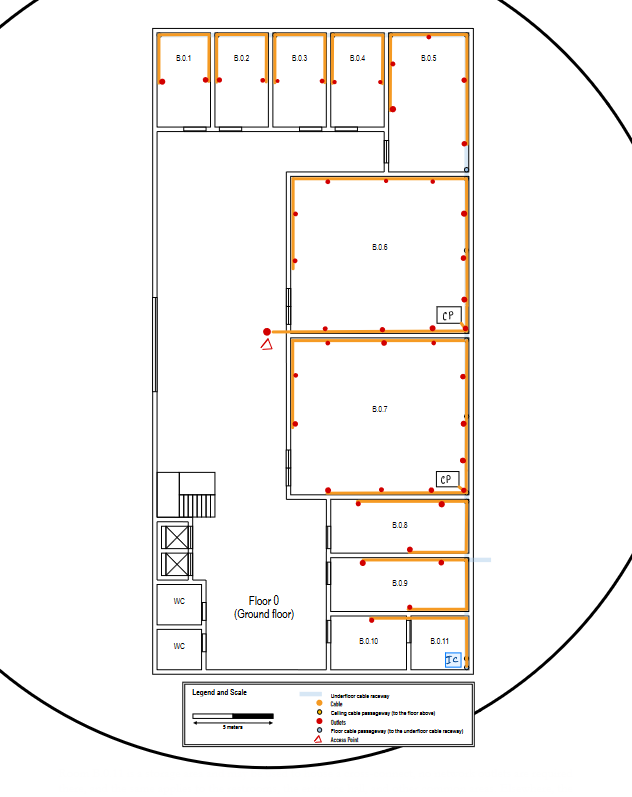
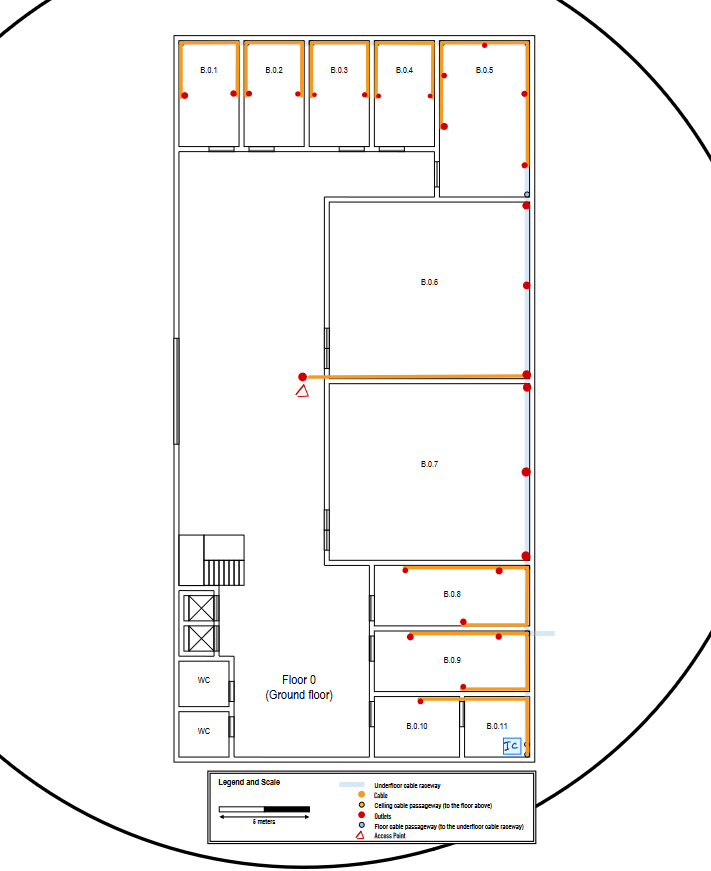
building b: justified choices and layouts that were used

diff --git a/doc/sprint1/1210951/README.md b/doc/sprint1/1210951/README.md
@@ -1,28 +1,65 @@
 RCOMP 2022-2023 Project - Sprint 1 - Member 1210951 folder
 ===========================================
 
-# Floor 0
+# Overview
+
+
+## Floor 0:
+- Underground cable raceway
+- Ceiling height : 4 meters
+- B.0.11 does not need outlets
+- B.0.6 and B.0.7 only need 5 outlets along the underfloor cable raceway
+## Floor 1:
+- Ceiling height: 3 meters
+- Removable dropped ceiling: 2.5 meters
+
+## Common to both floors:
+- Full Wi-Fi coverage
+- No network outlets required at the restrooms, halls, and corridors
+- Rooms with no specific requirements regarding outlets must follow the ratio of 2 outlets by 10m2
+
+
+# Ground floor - Floor 0
 ## Measurements
 
 |      Room       | Length (m) | Width (m) | Area (m²) | Outlets |
 | :-------------: | :--------: | :-------: | :-------: | :-----: |
 | B.0.1 to B.0.4  |    5.77    |   3.27    |   18.87   |    4    |
 |      B.05       |    8.65    |   5       |   43.25   |   10    |
-| B.0.6 and B.0.7 |   10.96    |   9.62    |   105.43  |   22+1(cp)    |
+| B.0.6 and B.0.7 |   10.96    |   9.62    |   105.43  |   5    |
 | B.0.8 and B.0.9 |    8.65    |   3.27    |   27.66   |    6    |
 |     B.0.10      |    4.62    |   3.27    |   7.85    |    2    |
 |     B.0.11      |    3.65    |   3,27    |   11.94   |    0    |
-|      TOTAL      |   ------   |  ------   |   377.04  |   84    |
+|      TOTAL      |   ------   |  ------   |   377.04  |   50    |
 
 ## Network cable/devices layout
+<p>
 
 ![Floor 0 Photo](floor0.png)
+
+</p>
+
+- B.0.11 it is used to house the IC, and no outlets are required.
+
+- All the cables run trought the underfloor cable raceway, at the properly passageway all cables are set at 1m from the floor, after that the cables run trougth cable raceways in each room.
+
+- It was placed only 1 Acess Point (AP) on this floor, considering 25m of radius,it is enough to cover all the floor, the AP it is not centered in the floor since it would be inside a room was choosen instead to move it a little bit to the side and place it on the hall with the goal to minimize signal loss, it was also placed a double outlet close to the AP.
+
 
 ## Inventory
 
 ### IC
 
+- The IC will be a 24U rack cabinet. In order to provide space for future upgrades in the network infrastucture the rack used needs to be of 24U providing space for 50% additional equipment. The rack cabinet layout will be as follows:
+
+- Considering 0,5m of patch cords to connect each patch panel entry to the switch, we have a total of an additional 36m of cables to interconnect the switches with the patch panels
+
+
+<p>
+
 ![Floor 0 IC Photo](IC-floor0.png)
+
+</p>
 
 |        Material        | Price (€) |
 | :--------------------: | :-------: |
@@ -32,40 +69,31 @@ RCOMP 2022-2023 Project - Sprint 1 - Member 1210951 folder
 | 1 Patch Panel 24 Ports |   27,50   |
 |   1 Switch 24 Ports    |  314,97  |
 | 4 Management Horizontal Cable Rack|  79,96    |
+| 36m Copper Cables |    29,88    |
 
-### CP
 
-![Floor 0 CP Photo](CP-floor0.png)
-
-|        Material        | Price (€) |
-| :--------------------: | :-------: |
-|     2 Cabinet 12U      |  1046,6   |
-| 2 Patch Panel 24 Ports |   55,00   |
-|   2 Switch 24 Ports    |  629,94   |
-| 4 Management Horizontal Cable Rack|  79,96    |
-
+- Connectors RJ45:
+    - We need 27 double outlets, and for each 4 connectors (108)
+    - For each patch panel entry we need another 2 (72)
+    - 2 more to connect our AP (2)
 
 ### Floor 0 
 
 |        Material        | Price (€) |
 | :--------------------: | :-------: |
-|   45 Double outlets    |  508.50   |
-| 165m of Cable Raceways | 2461,80   |
-| 2100m of Copper Cables |  1743,00  |
+|   27 Double outlets    |  305,10 |
+| 115m of Cable Raceways | 1715,80   |
+| 2000m of Copper Cables |  166,00  |
 |    1 Access Point     |   80,36   |
-|     2 Cabinet 12U      |  1046,6   |
 |     1 Cabinet 24 U      |  799,83   |
 | 1 Patch Panel 48 Ports |  69,00   |
-| 3 Patch Panel 24 Ports |   82,50   |
+| 1 Patch Panel 24 Ports |   27,50  |
 |   1 Switch 48 Ports    |  661,77 |
-|   3 Switch 24 Ports    |  944,91   |
-|  2 m of Fiber Cables  |   5.74    |
-|  182 Connectors(RJ45)   |    36,40     |
-|  TOTAL      |   --    |
-
-
-
-
+|   1 Switch 24 Ports    |  944,91   |
+|  8 m of Fiber Cables  |   22,96    |
+|  200 Connectors(RJ45)   |    40,00  |
+| 4 Management Horizontal Cable Rack|  79,96  |
+|  TOTAL      |   4833,23    |
 
 
 # Floor 1
@@ -83,8 +111,25 @@ RCOMP 2022-2023 Project - Sprint 1 - Member 1210951 folder
 
 ![Floor 1 Photo](floor1.png)
 
+- Similiar to the room B.0.11 the room B.1.12 does not need outlets and it will be used to store the HC
+
+- The connection between the HC on this floor and the IC on the floor 0 was made with 4 cables, 5m each(since the floor 0 is 4m tall), in order to minimize possible future problems connecting both equipments properly 
+
+- In this floor there is a dropped ceilig at a 2,5 heigth, so all the cable drop 1,5m at the correspondent ceiling passageway and after that each cable runs trougth the cable raceways properly installed in each room
+
+- Following the same idea with the floor 0 it was placed only 1 Acess Point (AP) on this floor, considering 25m of radius,it is enough to cover all the floor, and close to it a double outlet
+
 
 ## Inventory 
+
+- Considering 0,5m of patch cords to connect each patch panel entry to the switch, we have a total of an additional 60m of cables to interconnect the switches with the patch panels
+
+- Connectors RJ45:
+    - We need 52 double outlets, and for each 4 connectors (208)
+    - For each patch panel entry we need another 2 (240)
+    - 2 more to connect our AP (2)
+
+
 ### HC
 ![Floor 1 HC Photo](HC-floor1.png)
 
@@ -96,16 +141,16 @@ RCOMP 2022-2023 Project - Sprint 1 - Member 1210951 folder
 | 1 Patch Panel 24 Ports |   27,50   |
 |   1 Switch 24 Ports    |  314,97  |
 | 6 Management Horizontal Cable Rack|  119,94    |
+| 36m Copper Cables |    29,88    |
 
 
-## Inventory 
 ### Floor 1
 |        Material        | Price (€) |
 | :--------------------: | :-------: |
 | 3610m of Copper Cables |  2996.30  |
 | 150m of Cable Raceways |  2238.00  |
-|  208 Connectors(RJ45)   |    41.6     |
-|   52 Double outlets    |  587.6   |
+|  450 Connectors(RJ45)   |    90,00     |
+|   52 Double outlets    |  587,60   |
 |    1 Access Point     |   80,36   |
 |     1 Cabinet 24 U      |  799,83   |
 | 2 Patch Panel 48 Ports |  138,00   |
@@ -113,45 +158,10 @@ RCOMP 2022-2023 Project - Sprint 1 - Member 1210951 folder
 | 1 Patch Panel 24 Ports |   27,50   |
 |   1 Switch 24 Ports    |  314,97  |
 | 6 Management Horizontal Cable Rack|  119,94    |
-|  TOTAL      |   14077,27     |
+|  TOTAL      |   8716,04     |
 
 
 # Total Inventory
 
-CAT6
-|        Material        | Price (€) |
-| :--------------------: | :-------: |
-| 5710m of Copper Cables |  4739,3   |
-| 315m of Cable Raceways |  4699,8  |
-|    2 Access Point     |   80,36   |
-|     2 Cabinet 12U      |  1046,6   |
-|     2 Cabinet 24 U      |  799,83   |
-| 3 Patch Panel 48 Ports |  69,00   |
-| 4 Patch Panel 24 Ports |   82,50   |
-|   3 Switch 48 Ports    |  661,77 |
-|   4 Switch 24 Ports    |  944,91   |
-|   97 Double outlets    |  587,6   |
-| 14 Management Horizontal Cable Rack|  279,86    |
-|  400 Connectors(RJ45)   |    80,00     |
-|  2 m of Fiber Cables  |   5.74    |
-|  TOTAL      |   14077,27     |
+**Total Cost Of Building B : 13549,27**
 
-
-
-CAT7 
-|        Material        | Price (€) |
-| :--------------------: | :-------: |
-| 5710m of Copper Cables |  4739,3   |
-| 315m of Cable Raceways |  4699,8  |
-|    2 Access Point     |   80,36   |
-|     2 Cabinet 12U      |  1046,6   |
-|     2 Cabinet 24 U      |  799,83   |
-| 3 Patch Panel 48 Ports |  69,00   |
-| 4 Patch Panel 24 Ports |   82,50   |
-|   3 Switch 48 Ports    |  661,77 |
-|   4 Switch 24 Ports    |  944,91   |
-|   97 Double outlets    |  587,6   |
-| 14 Management Horizontal Cable Rack|  279,86    |
-|  400 Connectors(RJ45)   |    80,00     |
-|  2 m of Fiber Cables  |   5.74    |
-|  TOTAL      |   14077,27     |
